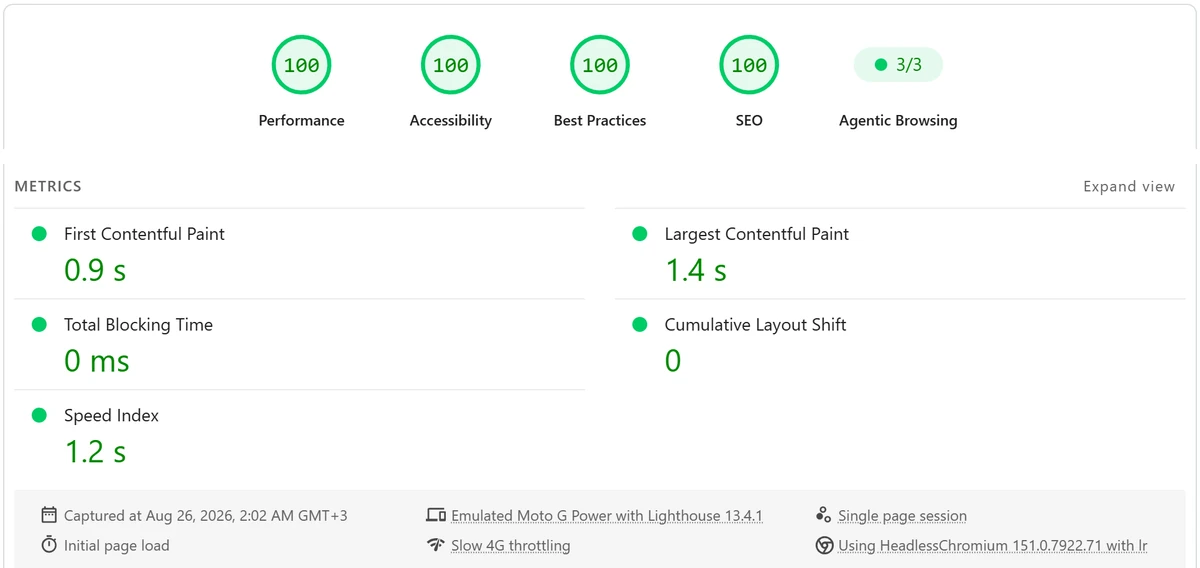
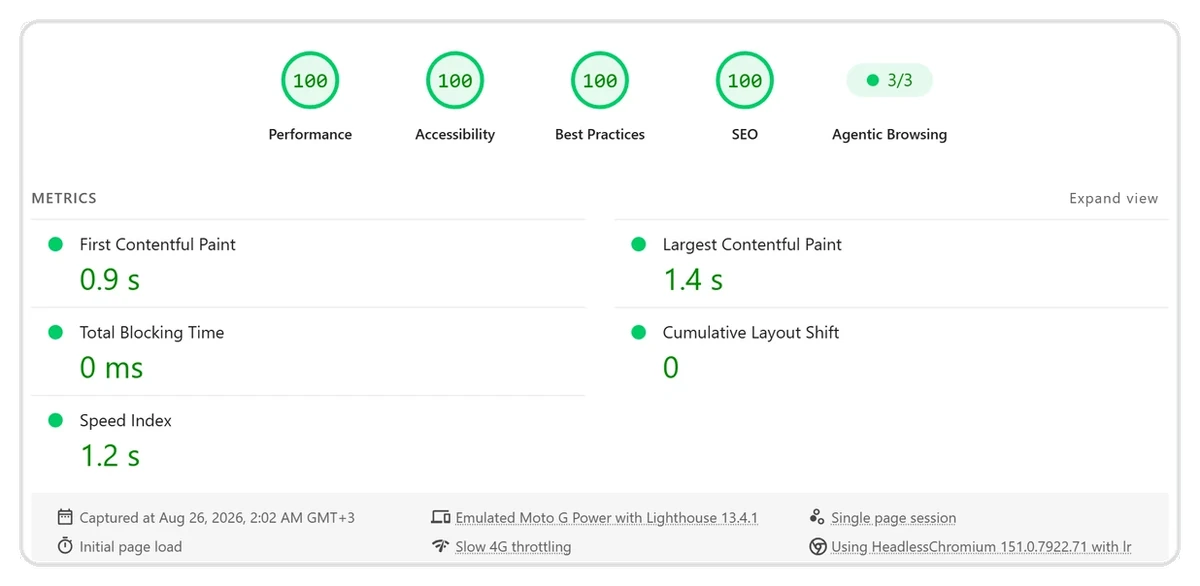
docs(ingilizceciyiz): refine backup wording, round psi card

diff --git a/ingilizceciyiz.md b/ingilizceciyiz.md
@@ -72,7 +72,7 @@ flowchart TD
 
 **CI enforces what review would otherwise have to catch.** GitHub Actions runs lint, typecheck and build, deploys edge functions, and runs `gitleaks` for secret scanning alongside a dependency audit. A Husky pre-push hook applies the same rules locally through Turborepo, so failures arrive before the push rather than after it.
 
-**Backups are a feature, not a runbook step.** A dedicated edge function exports the full database, and the admin panel downloads it in one click. Whatever the hosting platform provides by default is a floor, not a plan.
+**Backups are a feature, not a runbook step.** A dedicated edge function verifies the caller is an admin, dumps a whitelist of tables — user-generated documents deliberately excluded — and writes an audit entry attributed to the person who ran it, not to the service role. The admin panel downloads the result in one click. Whatever the hosting platform gives you by default is a floor, not a plan.
 
 **Delivery is deliberately boring.** Web deploys to Cloudflare Pages on push to `main`. Mobile builds through EAS, and JavaScript-only fixes ship as over-the-air updates without waiting for store review — which matters when a teacher hits a bug during a lesson.
 
@@ -105,7 +105,7 @@ flowchart TD
 ## Outcome
 
 - **11,277 documents generated** by **1,134 teachers** as of 26 August 2026 — roughly ten each
-- **1,069 document templates** across eight categories — the catalogue tracks the syllabus, and 444 daily plans were retired in 2026 after a curriculum update
+- **1,069 document templates** built across eight categories
 - **23,000+ downloads** — 13,594 on the App Store, 10,000+ on Google Play
 - **In the stores since September 2023**, across three back-to-school cycles; the rebuilt platform shipped in April 2026
 - **[PageSpeed Insights](https://pagespeed.web.dev/analysis?url=https://ingilizceciyizmobil.com/) 100 / 100 / 100 / 100 on mobile** — performance, accessibility, best practices and SEO, measured 26 August 2026, with LCP at 1.4 s, TBT at 0 ms and CLS at 0 on an emulated Moto G Power over throttled 4G
